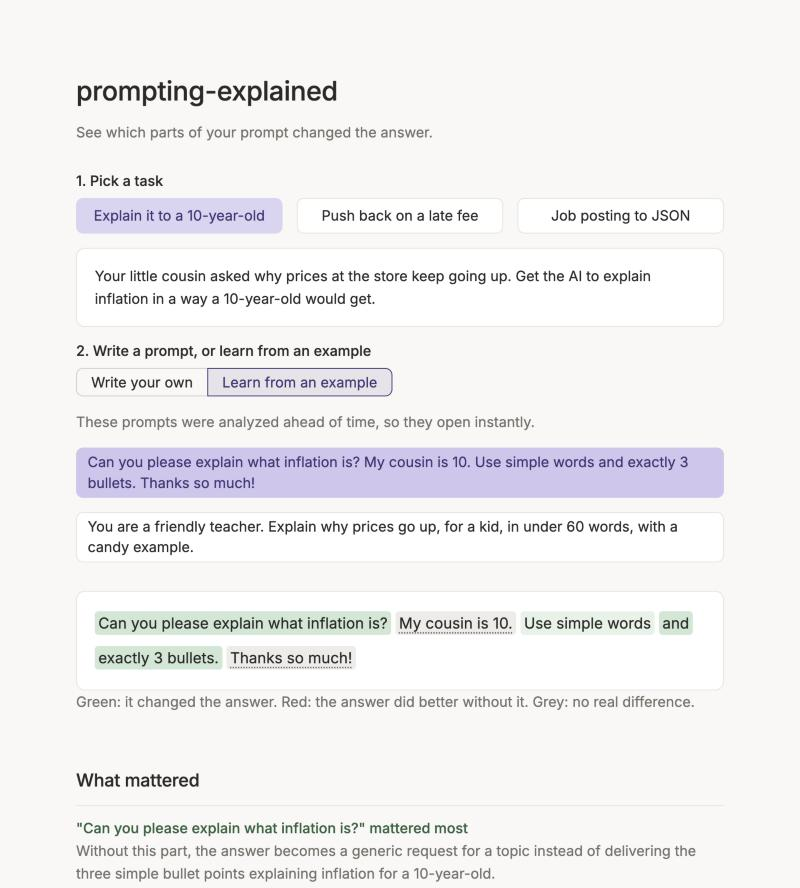
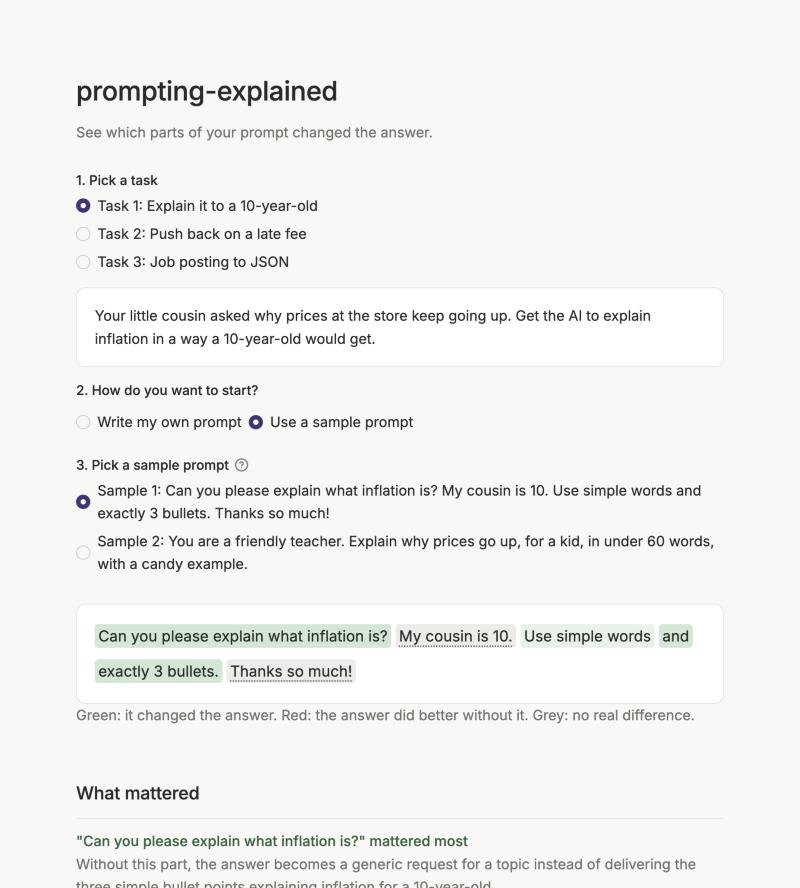
Show the app one step at a time
Nothing is preselected. Picking a task shows its scenario and the choice
between writing your own prompt and using a sample; picking a sample opens
its results. Changing an earlier step clears the later ones.

diff --git a/app/styles.css b/app/styles.css
@@ -42,11 +42,10 @@ header[data-testid="stHeader"] { background: transparent; }
 [data-testid="stSidebar"], [data-testid="stSidebarCollapsedControl"], [data-testid="stExpandSidebarButton"] { display: none !important; }
 
 /* Steps and choice buttons */
-.pe-step { font-size: 15px; font-weight: 500; color: var(--ink); margin: 1.2rem 0 0.4rem 0; }
 .stButton button[data-testid="stBaseButton-secondary"] { background: var(--surface); border: 1px solid var(--border); color: var(--ink); text-align: left; justify-content: flex-start; }
 .stButton button[data-testid="stBaseButton-secondary"]:hover { border-color: var(--accent); color: var(--accent-ink); background: var(--surface); }
 .stButton button p { white-space: normal; text-align: left; line-height: 1.45; }
-[data-testid="stSegmentedControl"] button[aria-checked="true"], [data-testid="stButtonGroup"] button[kind="segmented_controlActive"] { background: var(--accent); color: var(--accent-ink); border-color: var(--accent); }
+
 
 /* Buttons: primary = lavender */
 .stButton button[kind="primary"], .stButton button[data-testid="stBaseButton-primary"] {
@@ -85,3 +84,11 @@ header[data-testid="stHeader"] { background: transparent; }
 .pe-head.helped { color: var(--helped-ink); }
 .pe-head.hurt { color: var(--hurt-ink); }
 .pe-why { margin: 3px 0 0 0; font-size: 15px; color: var(--muted); line-height: 1.55; }
+
+/* Step lists: radio options as quiet selectable rows */
+[data-testid="stRadio"] > label p { font-size: 15px; font-weight: 500; color: var(--ink); }
+[data-testid="stRadio"] [role="radiogroup"] { gap: 6px; }
+[data-testid="stRadio"] [role="radiogroup"] > label { background: var(--surface); border: 1px solid var(--border); border-radius: 8px; padding: 8px 12px; margin: 0; width: 100%; }
+[data-testid="stRadio"] [role="radiogroup"][aria-orientation="horizontal"] > label,
+[data-testid="stRadio"] div[role="radiogroup"]:has(> label:nth-child(2):last-child) > label { width: auto; }
+[data-testid="stRadio"] [role="radiogroup"] > label:has(input:checked) { border-color: var(--accent-ink); background: var(--accent); }

diff --git a/app/streamlit_app.py b/app/streamlit_app.py
@@ -72,44 +72,57 @@ by_id = {c.id: c for c in challenges}
 config = load_config()
 key_on_server = server_key()
 
-ss.setdefault("task", challenges[0].id)
-ss.setdefault("mode", "custom" if key_on_server else "example")
+def about() -> None:
+    st.write("")
+    with st.expander("About this tool"):
+        st.markdown(
+            "This tool removes one part of your prompt at a time, reruns it, and checks whether the answer "
+            "changed. Results are estimates for one AI model on these tasks, not general rules."
+        )
+
+
+def reset_below_task() -> None:
+    """A new task clears every later step."""
+    ss.result, ss.error = None, None
+    ss.mode = None
+    ss.sample = None
+
+
+def reset_below_mode() -> None:
+    """A new start choice (or Try again) clears the sample pick and any result."""
+    ss.result, ss.error = None, None
+    ss.sample = None
+
 
 st.title("prompting-explained")
 md('<p class="pe-subtitle">See which parts of your prompt changed the answer.</p>')
 
-md('<p class="pe-step">1. Pick a task</p>')
-cols = st.columns(len(challenges))
-for col, c in zip(cols, challenges):
-    with col:
-        selected = ss.task == c.id
-        if st.button(c.title, key=f"task_{c.id}", type="primary" if selected else "secondary", use_container_width=True):
-            if not selected:
-                ss.task, ss.result, ss.error = c.id, None, None
-                st.rerun()
+task_id = st.radio(
+    "1. Pick a task",
+    [c.id for c in challenges],
+    format_func=lambda i: f"Task {[c.id for c in challenges].index(i) + 1}: {by_id[i].title}",
+    index=None,
+    key="task",
+    on_change=reset_below_task,
+)
+if task_id is None:
+    about()
+    st.stop()
 
-ch = by_id[ss.task]
+ch = by_id[task_id]
 md(f'<div class="pe-card">{esc(ch.scenario.strip())}</div>')
 if ch.fixed_context:
     with st.expander("Attached automatically"):
         md(f'<div class="pe-doc">{text_html(ch.fixed_context.strip())}</div>')
 
-md('<p class="pe-step">2. Write a prompt, or learn from an example</p>')
-MODES = {"custom": "Write your own", "example": "Learn from an example"}
-
-
-def keep_mode() -> None:
-    """Clicking the selected option again would clear it; keep the last choice instead."""
-    if ss.mode is None:
-        ss.mode = ss.get("last_mode", "custom")
-    ss.last_mode = ss.mode
-    ss.result, ss.error = None, None
-
-
-mode = st.segmented_control(
-    "How do you want to start?", list(MODES), format_func=MODES.get, key="mode",
-    label_visibility="collapsed", on_change=keep_mode,
-) or ss.get("last_mode", "custom")
+MODES = {"custom": "Write my own prompt", "sample": "Use a sample prompt"}
+mode = st.radio(
+    "2. How do you want to start?", list(MODES), format_func=MODES.get, index=None, key="mode",
+    horizontal=True, on_change=reset_below_mode,
+)
+if mode is None:
+    about()
+    st.stop()
 
 
 def run_live(prompt: str) -> None:
@@ -154,28 +167,33 @@ def run_live(prompt: str) -> None:
     st.rerun()
 
 
-if mode == "example":
+shown = None
+if mode == "sample":
     files = demo_files(ch)
-    examples = {p: AnalysisResult.model_validate_json(p.read_text()) for p in files}
-    md('<p class="pe-muted">These prompts were analyzed ahead of time, so they open instantly.</p>')
-    for path, ex in examples.items():
-        shown = ss.result is not None and ss.result.user_prompt == ex.user_prompt
-        if st.button(ex.user_prompt, key=f"ex_{path.stem}", type="primary" if shown else "secondary", use_container_width=True):
-            ss.result, ss.error = ex, None
-            st.rerun()
+    examples = {p.stem: AnalysisResult.model_validate_json(p.read_text()) for p in files}
+    pick = st.radio(
+        "3. Pick a sample prompt",
+        list(examples),
+        format_func=lambda k: f"Sample {list(examples).index(k) + 1}: {examples[k].user_prompt}",
+        index=None,
+        key="sample",
+        help="These were analyzed ahead of time, so they open instantly.",
+    )
+    shown = examples[pick] if pick else None
 else:
-    prompt = st.text_area("Your prompt", height=120, key=f"prompt_{ch.id}", placeholder="Write the prompt you'd give the AI.")
+    prompt = st.text_area("3. Write your prompt", height=120, key=f"prompt_{ch.id}", placeholder="Write the prompt you'd give the AI.")
     capped = ss.analyses_run >= SESSION_CAP
     if not key_on_server:
-        st.info("Live analysis isn't set up here (no API key). Try \"Learn from an example\" instead.")
+        st.info("Live analysis isn't set up here (no API key). Try a sample prompt instead.")
     elif capped:
-        st.info(f"You've used the {SESSION_CAP} analyses for this session. The examples still work.")
+        st.info(f"You've used the {SESSION_CAP} analyses for this session. The sample prompts still work.")
     elif st.button("Analyze", type="primary"):
         ss.error = None
         if prompt.strip():
             run_live(prompt)
         else:
             ss.error = "Write a prompt first."
+    shown = ss.result
 
 if ss.error:
     st.error(ss.error)
@@ -239,7 +257,7 @@ def how_measured(res: AnalysisResult) -> None:
         )
 
 
-res = ss.result
+res = shown
 if res is not None:
     st.write("")
     md(heatmap(res))
@@ -251,13 +269,6 @@ if res is not None:
         mono = " mono" if ch.id == "job_extraction" else ""
         md(f'<div class="pe-answer{mono}">{text_html(res.baseline_runs[0].answer)}</div>')
     how_measured(res)
-    if st.button("Try again"):
-        ss.result, ss.error = None, None
-        st.rerun()
+    st.button("Try again", on_click=reset_below_mode)
 
-st.write("")
-with st.expander("About this tool"):
-    st.markdown(
-        "This tool removes one part of your prompt at a time, reruns it, and checks whether the answer "
-        "changed. Results are estimates for one AI model on these tasks, not general rules."
-    )
+about()

diff --git a/README.md b/README.md
@@ -4,7 +4,7 @@ A small web app that shows which parts of your prompt actually changed an AI's a
 
 You pick a task (explain inflation to a 10-year-old, push back on a late fee, turn a messy job posting into JSON), write a prompt, and the app takes it apart. It runs your prompt a few times, then runs it again with one piece removed at a time, and tells you which pieces made a difference and which ones the AI would have handled anyway. "Please" and "thanks" almost never matter. "Use 3 bullet points" almost always does. Sometimes the attached email does all the work and nothing you wrote matters much, which is useful to know too.
 
-![Picking a task and an example prompt, then the prompt with highlighted parts and what mattered](docs/screenshot.jpg)
+![Picking a task and a sample prompt, then the prompt with highlighted parts and what mattered](docs/screenshot.jpg)
 
 I built this for an explainable AI course. The question I wanted to answer:
 
@@ -84,7 +84,7 @@ cp .env.example .env        # add your ANTHROPIC_API_KEY
 .venv/bin/streamlit run app/streamlit_app.py
 ```
 
-Without a key, pick "Learn from an example" under any task to open one of six saved analyses. One live analysis is around 15 to 40 calls to Haiku, a fraction of a cent.
+Without a key, pick a task and choose "Use a sample prompt" to open one of six saved analyses. One live analysis is around 15 to 40 calls to Haiku, a fraction of a cent.
 
 Tests use a fake model and make no API calls:
 
